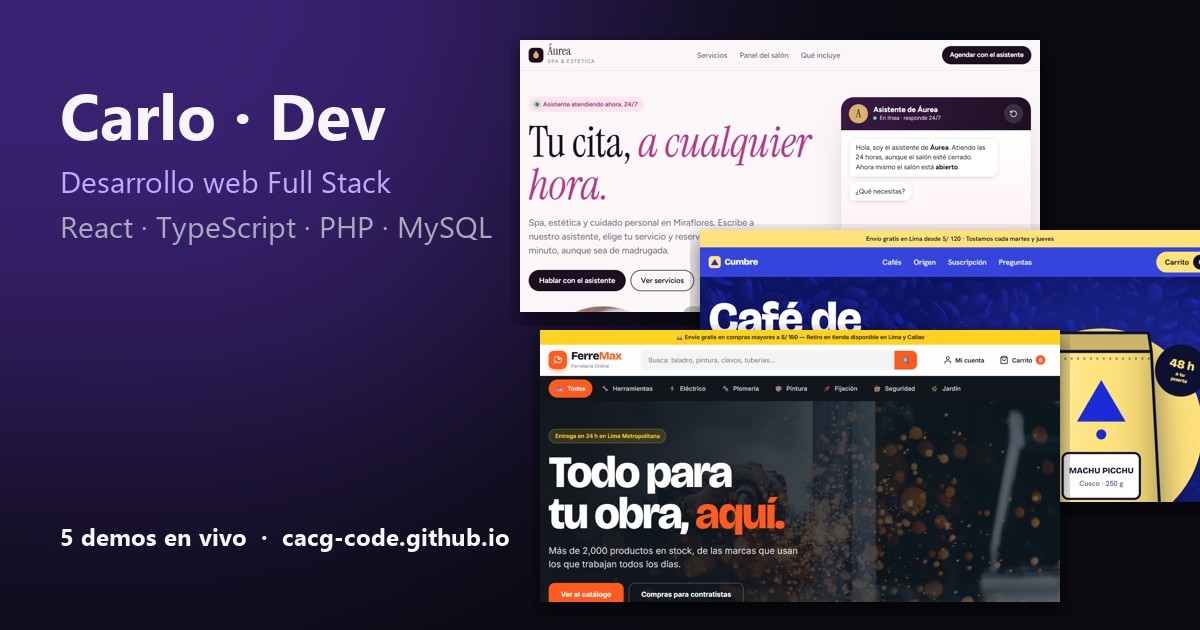
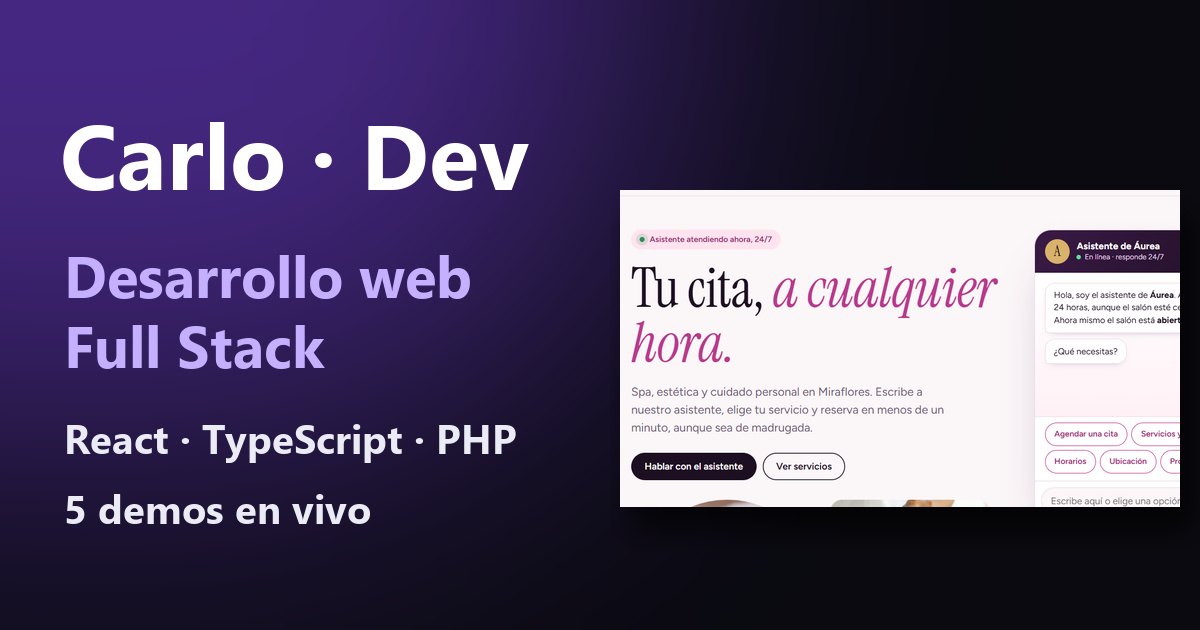
Portada de vista previa mas grande y nitida

diff --git a/index.html b/index.html
@@ -11,7 +11,7 @@
 <meta property="og:title" content="Carlo · Dev — Desarrollo web Full Stack">
 <meta property="og:description" content="Portafolio con 5 demos en vivo: landing, tienda online, CRM, e-commerce en React y asistente virtual. React, TypeScript, PHP y MySQL.">
 <meta property="og:type" content="website">
-<meta property="og:image" content="https://cacg-code.github.io/assets/portada-og.jpg">
+<meta property="og:image" content="https://cacg-code.github.io/assets/portada-og.jpg?v=2">
 <meta property="og:image:width" content="1200">
 <meta property="og:image:height" content="630">
 <meta name="twitter:card" content="summary_large_image">
